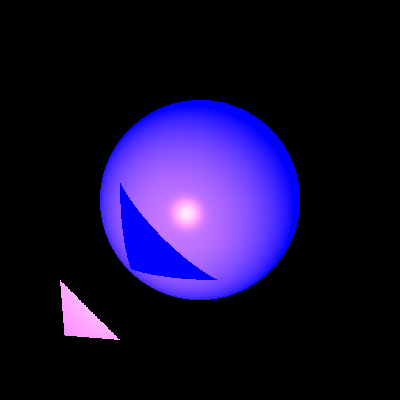
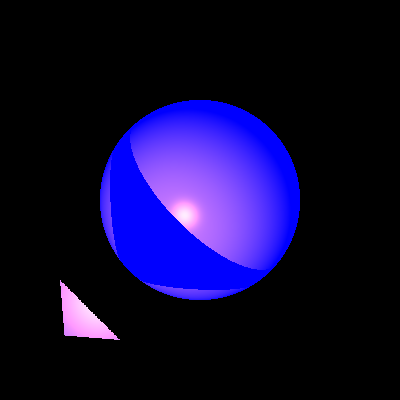
stage 7.1

Changed region(s): [[0.27, 0.33, 0.66, 0.75], [0.18, 0.75, 0.24, 0.81]]

diff --git a/src/geometries/Triangle.java b/src/geometries/Triangle.java
@@ -64,37 +64,26 @@ public class Triangle extends Polygon {
         double AreaTriangleCAP;
         try {
             AreaTriangleCAP = (((A.subtract(C)).crossProduct(P.subtract(C))).length()) / 2;
-        } catch (IllegalArgumentException e) {
-            return null;
-        }
-
-        // if the area of the triangle ABP is zero, it means u is zero - the point is on the side of the triangle
-        // which is something we are not considering as an intersection point - so we'll return null
-        double AreaTriangleABP;
-        try {
+            // if the area of the triangle ABP is zero, it means u is zero - the point is on the side of the triangle
+            // which is something we are not considering as an intersection point - so we'll return null
+            double AreaTriangleABP;
             AreaTriangleABP = (((B.subtract(A)).crossProduct(P.subtract(A))).length()) / 2;
-        } catch (IllegalArgumentException e) {
-            return null;
-        }
-
-        // if the area of the triangle BCP is zero, it means u is zero - the point is on the side of the triangle
-        // which is something we are not considering as an intersection point - so we'll return null
-        double AreaTriangleBCP;
-        try {
+            // if the area of the triangle BCP is zero, it means u is zero - the point is on the side of the triangle
+            // which is something we are not considering as an intersection point - so we'll return null
+            double AreaTriangleBCP;
             AreaTriangleBCP = (((C.subtract(B)).crossProduct(P.subtract(B))).length()) / 2;
+            // after we calculated the areas we can calculate u,v,w
+            double u = AreaTriangleCAP / AreaTriangleABC;
+            double v = AreaTriangleABP / AreaTriangleABC;
+            double w = AreaTriangleBCP / AreaTriangleABC;
+
+            // now we check if P is actually inside the area of the triangle - if so, we'll return P
+            if (Util.isZero(u + v + w - 1))
+                return List.of(new GeoPoint(this, P));
+            else
+                return null;
         } catch (IllegalArgumentException e) {
             return null;
         }
-
-        // after we calculated the areas we can calculate u,v,w
-        double u = AreaTriangleCAP / AreaTriangleABC;
-        double v = AreaTriangleABP / AreaTriangleABC;
-        double w = AreaTriangleBCP / AreaTriangleABC;
-
-        // now we check if P is actually inside the area of the triangle - if so, we'll return P
-        if (Util.isZero(u + v + w - 1))
-            return List.of(new GeoPoint(this, P));
-        else
-            return null;
     }
 }

diff --git a/unitTests/renderer/ShadowTests.java b/unitTests/renderer/ShadowTests.java
@@ -89,19 +89,8 @@ public class ShadowTests {
     public void sphereTriangleSpot1() {
         sphereTriangleHelper("shadowSphereTriangleSpot1", //
                 new Triangle(new Point(-70, -40, 0), new Point(-40, -70, 0), new Point(-68, -68, -4)), //
-                new Point(-150, -150, 200));
-    }
-
-    @Test
-    public void sphereTriangleSpot11() {
-        sphereTriangleHelper("shadowSphereTriangleSpot11", //
-                new Triangle(
-                        new Point(-70, -40, 0),
-                        new Point(-40, -70, 0),
-                        new Point(-68, -68, -4)), //
                 new Point(-88, -88, 120));
     }
-
     /**
      * Sphere-Triangle shading - move spot even more close
      */
@@ -112,7 +101,7 @@ public class ShadowTests {
                         new Point(-70, -40, 0),
                         new Point(-40, -70, 0),
                         new Point(-68, -68, -4)), //
-                new Point(-96, -96, 182));
+                new Point(-76, -76, 70));
     }
 
     /**
@@ -143,41 +132,6 @@ public class ShadowTests {
                 .setRayTracer(new RayTracerBasic(scene2))
                 .renderImage() //
                 .writeToImage();
-    }
-
-    @Test
-    public void niceTry() {
-        Scene myscene = new Scene.SceneBuilder("Test scene")
-                .setAmbientLight(new AmbientLight(new Color(WHITE), new Double3(0.15d)))
-                .build();
-
-        myscene.geometries.add(
-                sphere,
-                new Triangle(
-                        new Point(-70, -40, 0),
-                        new Point(-40, -70, 0),
-                        new Point(-68, -68, -4))
-                        .setEmission(new Color(BLUE))
-                        .setMaterial(trMaterial));
-
-        myscene.lights.add( //
-                new SpotLight(new Color(400, 240, 0),
-                        new Point(-96, -96, 182),
-                        new Vector(1, 1, -3)) //
-                        .setkL(1E-5).setkQ(1.5E-7));
-
-        Camera mycamera = new Camera(
-                new Point(0, 0, 1000),
-                new Vector(0, 0, -1),
-                new Vector(0, 1, 0))   //
-                .setVPSize(200, 200)
-                .setVPDistance(1000)                                                                       //
-                .setRayTracer(new RayTracerBasic(myscene))
-                .setImageWriter(new ImageWriter("shadowSphereTriangleSpotwoua", 400, 400))
-                .renderImage();
-
-        mycamera.writeToImage();
-
     }
 
 }

diff --git a/src/renderer/RayTracerBasic.java b/src/renderer/RayTracerBasic.java
@@ -46,17 +46,41 @@ public class RayTracerBasic extends RayTracerBase {
      * @param n
      * @return
      */
+
     private boolean unshaded(GeoPoint gp, LightSource lightSource, Vector l, Vector n, double nl) {
         try {
             Vector lightDirection = l.scale(-1); // from point to light source
-            Vector epsVector = n.scale(n.dotProduct(lightDirection) > 0 ? DELTA : -DELTA);
+            Vector epsVector = n.scale((n.dotProduct(lightDirection) > 0 ? DELTA : -DELTA));
+            Point point = gp.point.add(epsVector);
+            Ray lightRay = new Ray(point, lightDirection);
+            List<GeoPoint> intersections = scene.geometries.findGeoIntersections(lightRay);
+
+            if (intersections == null)
+                return true;
+            for (GeoPoint intersectionPoint : intersections) {
+                if (lightSource.getDistance(gp.point) > point.distance(intersectionPoint.point))
+                    //if (lightSource.getDistance(intersectionPoint.point)>0)
+                        return false;
+            }
+            return true;
+
+        } catch (IllegalArgumentException e) {
+            return false;
+        }
+    }
+
+    /**
+    private boolean unshaded(GeoPoint gp, LightSource lightSource, Vector l, Vector n, double nl) {
+        try {
+            Vector lightDirection = l.scale(-1); // from point to light source
+            Vector epsVector = n.scale(nl < 0 ? DELTA : -DELTA);
             Point point = gp.point.add(epsVector);
             Ray lightRay = new Ray(point, lightDirection);
             List<GeoPoint> intersections = scene.geometries.findGeoIntersections(lightRay);
             if (intersections == null)
                 return true;
             for (GeoPoint intersectionPoint : intersections) {
-                if (lightSource.getDistance(intersectionPoint.point) > gp.point.distance(intersectionPoint.point))
+                if (lightSource.getDistance(gp.point) >= point.distance(gp.point))
                     return false;
             }
             return true;
@@ -64,7 +88,7 @@ public class RayTracerBasic extends RayTracerBase {
             return false;
         }
     }
-
+    */
     /**
      * Calculates the color of the given intersection point by considering the ambient light and local effects
      * such as diffuse and specular reflections.

diff --git a/src/lighting/PointLight.java b/src/lighting/PointLight.java
@@ -61,7 +61,7 @@ public class PointLight extends Light implements LightSource {
 
     @Override
     public double getDistance(Point point) {
-        return (point.distance(position));
+        return (position.distance(point));
     }
 
     //--------------------------------getters----------------------------
